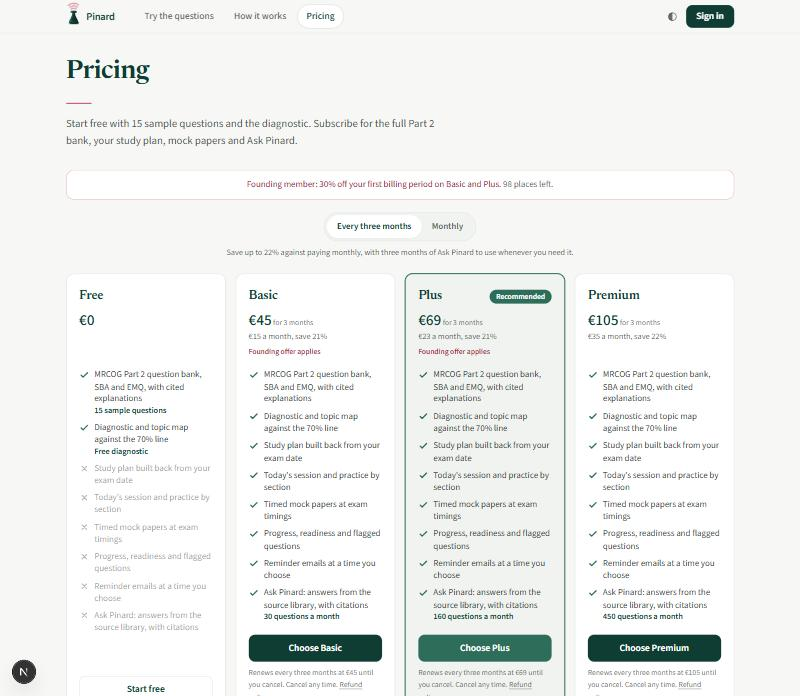
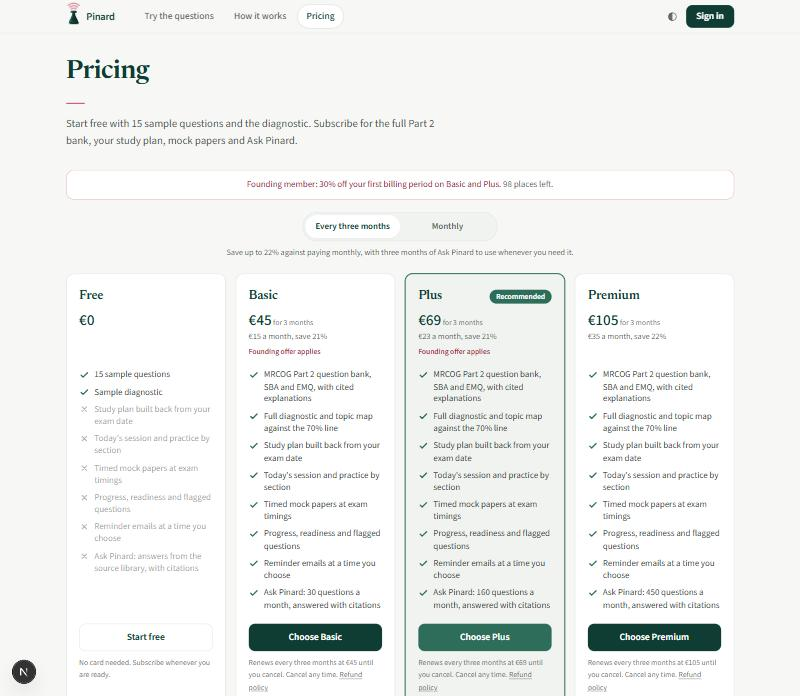
Pricing: owner's review fixes, landing sections alternate
- Billing-period toggle slides; prices ease in on a switch (not on load),
  transform and opacity only, off under reduced motion
- Free card: 15 sample questions and a sample diagnostic; full diagnostic
  from Basic; each tier words its own feature rows
- Comparison table removed (it repeated the cards); buttons aligned
- Landing page sections alternate between the page colour and white
- Daily fair-use test passes now phase45 is run (41 of 41)

diff --git a/src/app/pricing/PricingPlans.tsx b/src/app/pricing/PricingPlans.tsx
@@ -7,7 +7,9 @@ import type { CardView, PricingView } from "@/lib/pricingView";
 import { recordToggle } from "./actions";
 
 /**
- * The four plans (pricing Phase 2, D).
+ * The four plans (pricing Phase 2, D). The comparison table that used
+ * to follow them was removed at the owner's request (10 October 2026):
+ * it repeated the cards line for line.
  *
  * Three-monthly is selected first, showing the price per month and the
  * saving against paying monthly. Every card lists the same features in
@@ -48,11 +50,14 @@ export function PricingPlans({
   examWeeks: number | null;
 }) {
   const [interval, setInterval] = useState<Interval>("quarter");
+  // The new figures ease in only after a switch, not when the page loads.
+  const [switched, setSwitched] = useState(false);
   const best = Math.max(...view.cards.map((c) => c.prices?.quarter.saving ?? 0));
 
   function choose(next: Interval) {
     if (next === interval) return;
     setInterval(next);
+    setSwitched(true);
     void recordToggle(next);
   }
 
@@ -66,7 +71,14 @@ export function PricingPlans({
       )}
 
       <div className="flex flex-col items-center gap-2">
-        <div role="radiogroup" aria-label="Billing period" className="inline-flex rounded-full border border-line bg-sunk p-1">
+        {/* Two equal halves and one white pill that slides between them,
+            so the switch is seen to move rather than to blink. */}
+        <div role="radiogroup" aria-label="Billing period" className="relative grid grid-cols-2 rounded-full border border-line bg-sunk p-1">
+          <span
+            aria-hidden="true"
+            className="absolute inset-y-1 left-1 w-[calc(50%-0.25rem)] rounded-full bg-surface shadow-card transition-transform duration-[250ms] ease-out motion-reduce:transition-none"
+            style={{ transform: interval === "month" ? "translateX(100%)" : "translateX(0)" }}
+          />
           {(["quarter", "month"] as Interval[]).map((i) => (
             <button
               key={i}
@@ -74,15 +86,15 @@ export function PricingPlans({
               role="radio"
               aria-checked={interval === i}
               onClick={() => choose(i)}
-              className={`rounded-full px-4 py-2 font-ui text-[14px] font-semibold transition-colors duration-200 ${
-                interval === i ? "bg-surface text-ink-strong shadow-card" : "text-ink/70 hover:text-ink-strong"
+              className={`relative z-10 rounded-full px-4 py-2 font-ui text-[14px] font-semibold transition-colors duration-[250ms] ${
+                interval === i ? "text-ink-strong" : "text-ink/70 hover:text-ink-strong"
               }`}
             >
               {i === "quarter" ? "Every three months" : "Monthly"}
             </button>
           ))}
         </div>
-        <p className="font-ui text-[13px] text-ink/70">
+        <p key={interval} className={`font-ui text-[13px] text-ink/70 ${switched ? "price-swap" : ""}`}>
           {interval === "quarter"
             ? `Save up to ${best}% against paying monthly, with three months of Ask Pinard to use whenever you need it.`
             : "The most flexible: pay month by month."}
@@ -102,6 +114,7 @@ export function PricingPlans({
             key={card.tier}
             card={card}
             interval={interval}
+            animate={switched}
             signedIn={signedIn}
             current={currentTier === card.tier}
           />
@@ -109,13 +122,23 @@ export function PricingPlans({
       </div>
 
       <p className="mt-4 text-center font-ui text-[13px] text-ink/70">{view.taxNote} Prices vary by country.</p>
-
-      <Comparison cards={view.cards} />
     </div>
   );
 }
 
-function Card({ card, interval, signedIn, current }: { card: CardView; interval: Interval; signedIn: boolean; current: boolean }) {
+function Card({
+  card,
+  interval,
+  animate,
+  signedIn,
+  current,
+}: {
+  card: CardView;
+  interval: Interval;
+  animate: boolean;
+  signedIn: boolean;
+  current: boolean;
+}) {
   const price = card.prices?.[interval];
   return (
     <section
@@ -131,7 +154,7 @@ function Card({ card, interval, signedIn, current }: { card: CardView; interval:
         )}
       </div>
 
-      <p className="mt-2 min-h-[3.5rem]">
+      <p key={interval} className={`mt-2 min-h-[3.5rem] ${price && animate ? "price-swap" : ""}`}>
         {price ? (
           <>
             <span className="font-mono text-2xl font-medium text-ink-strong">{price.amount}</span>
@@ -151,12 +174,11 @@ function Card({ card, interval, signedIn, current }: { card: CardView; interval:
 
       <ul className="mt-4 space-y-2">
         {card.features.map((f) => (
-          <li key={f.label} className={`flex gap-2 font-ui text-[14px] leading-snug ${f.included ? "text-ink/85" : "text-ink/45"}`}>
+          <li key={f.text} className={`flex gap-2 font-ui text-[14px] leading-snug ${f.included ? "text-ink/85" : "text-ink/45"}`}>
             {f.included ? <Tick /> : <Cross />}
             <span>
               <span className="sr-only">{f.included ? "Included: " : "Not included: "}</span>
-              {f.label}
-              {f.detail && <span className="block text-[13px] font-semibold text-ink-strong">{f.detail}</span>}
+              {f.text}
             </span>
           </li>
         ))}
@@ -178,7 +200,7 @@ function Card({ card, interval, signedIn, current }: { card: CardView; interval:
             <input type="hidden" name="interval" value={interval} />
             <button
               type="submit"
-              className={`w-full rounded-control px-4 py-2.5 font-ui text-[15px] font-semibold ${
+              className={`w-full rounded-control border border-transparent px-4 py-2.5 font-ui text-[15px] font-semibold ${
                 card.recommended ? "bg-good text-on-brand hover:bg-brand" : "bg-brand text-on-brand hover:bg-good"
               }`}
             >
@@ -186,62 +208,20 @@ function Card({ card, interval, signedIn, current }: { card: CardView; interval:
             </button>
           </form>
         )}
-        {price && (
-          <p className="mt-2 font-ui text-[12px] leading-relaxed text-ink/65">
-            {price.renewal} Cancel any time.{" "}
-            <Link href="/refunds" className="underline underline-offset-2 hover:text-ink-strong">
-              Refund policy
-            </Link>
-          </p>
-        )}
-      </div>
-    </section>
-  );
-}
-
-function Comparison({ cards }: { cards: CardView[] }) {
-  const rows = cards[0]?.features.map((f) => f.label) ?? [];
-  return (
-    <section className="mt-12" aria-labelledby="compare">
-      <h2 id="compare" className="font-display text-[22px] font-semibold text-ink-strong">
-        Compare the plans
-      </h2>
-      <div className="mt-4 overflow-x-auto rounded-card border border-line">
-        <table className="w-full min-w-[640px] border-collapse text-left font-ui text-[14px]">
-          <thead className="bg-sunk">
-            <tr>
-              <th scope="col" className="px-3 py-2 font-semibold text-ink-strong">
-                Feature
-              </th>
-              {cards.map((c) => (
-                <th key={c.tier} scope="col" className={`px-3 py-2 font-semibold ${c.recommended ? "text-good" : "text-ink-strong"}`}>
-                  {c.name}
-                  {c.recommended && <span className="block text-[12px] font-medium">Recommended</span>}
-                </th>
-              ))}
-            </tr>
-          </thead>
-          <tbody>
-            {rows.map((label, r) => (
-              <tr key={label} className="border-t border-line align-top">
-                <th scope="row" className="px-3 py-2 font-normal text-ink/85">
-                  {label}
-                </th>
-                {cards.map((c) => {
-                  const f = c.features[r];
-                  return (
-                    <td key={c.tier} className="px-3 py-2">
-                      <span className="flex gap-1.5">
-                        {f.included ? <Tick /> : <Cross />}
-                        <span className={f.included ? "text-ink/85" : "text-ink/45"}>{f.detail ?? (f.included ? "Included" : "Not included")}</span>
-                      </span>
-                    </td>
-                  );
-                })}
-              </tr>
-            ))}
-          </tbody>
-        </table>
+        {/* Every card has a note under its button and the same space
+            for it, so the buttons line up across the row. */}
+        <p key={interval} className={`mt-2 min-h-[3.75rem] font-ui text-[12px] leading-relaxed text-ink/65 ${price && animate ? "price-swap" : ""}`}>
+          {price ? (
+            <>
+              {price.renewal} Cancel any time.{" "}
+              <Link href="/refunds" className="underline underline-offset-2 hover:text-ink-strong">
+                Refund policy
+              </Link>
+            </>
+          ) : (
+            "No card needed. Subscribe whenever you are ready."
+          )}
+        </p>
       </div>
     </section>
   );

diff --git a/src/components/landing/Landing.tsx b/src/components/landing/Landing.tsx
@@ -82,10 +82,19 @@ export function Landing({
   const live = (["part1", "part2", "part3"] as ExamPart[]).filter((p) => availability?.[p]);
   const paper = live.length === 1 ? `MRCOG ${EXAM_LABELS[live[0]]}` : "MRCOG";
 
+  /*
+    Each section alternates between the page's ground and white, in the
+    order they appear (owner's request, 10 October 2026), so one band
+    reads as ending where the next begins. Counted as the page renders,
+    because the testimonials section is there only when there are some.
+  */
+  let band = 0;
+  const tone = () => (band++ % 2 === 1 ? "bg-surface" : "bg-ground");
+
   return (
     <div data-wide="" className="-my-8 sm:-my-10">
       {/* Opening: what it is, and one real question to answer. */}
-      <ScrollFade className="bleed">
+      <ScrollFade className={`bleed ${tone()}`}>
         <div className={`${FRAME} grid items-start gap-10 py-12 sm:py-16 lg:grid-cols-[minmax(0,1fr)_minmax(0,30rem)] lg:gap-16 lg:py-20`}>
           <div className="lg:pt-6">
             <h1 className="max-w-[16ch] font-serif text-[36px] font-semibold leading-[1.08] tracking-[-0.015em] text-ink-strong [font-variation-settings:'opsz'_72] sm:text-[46px]">
@@ -117,7 +126,7 @@ export function Landing({
 
       {/* The library, stated as one sentence of fact rather than a strip
           of big numbers. The two counts still arrive, read live. */}
-      <ScrollFade className="bleed border-y border-line">
+      <ScrollFade className={`bleed border-y border-line ${tone()}`}>
         <div className={`${FRAME} py-8`}>
           <p className="max-w-[52rem] font-serif text-[21px] leading-snug text-ink sm:text-[24px]">
             <span className="font-semibold tabular-nums text-ink-strong">
@@ -136,7 +145,7 @@ export function Landing({
 
       {/* What it does: the four steps a candidate goes through, each
           beside a picture of it happening (HowItWorks). */}
-      <section className="bleed">
+      <section className={`bleed ${tone()}`}>
         <ScrollFade as="div" className={`${FRAME} pt-14 sm:pt-20`}>
           <h2 className="font-serif text-[28px] font-semibold leading-tight text-ink-strong sm:text-[34px]">
             What Pinard does
@@ -153,7 +162,7 @@ export function Landing({
       </section>
 
       {/* Ask Pinard: not a step, something to use at any point. */}
-      <section className="bleed border-t border-line bg-surface">
+      <section className={`bleed border-t border-line ${tone()}`}>
         <div className={`${FRAME} py-14 sm:py-20`}>
           <AskPinardFeature />
         </div>
@@ -162,7 +171,7 @@ export function Landing({
       {/* Words written by somebody other than us, if there are any. No
           placeholder: an invented testimonial is a lie about a person. */}
       {testimonials && testimonials.length > 0 && (
-        <ScrollFade className="bleed border-t border-line">
+        <ScrollFade className={`bleed border-t border-line ${tone()}`}>
           <div className={`${FRAME} py-14`}>
             <h2 className="font-serif text-[28px] font-semibold text-ink-strong">
               What candidates said
@@ -186,7 +195,7 @@ export function Landing({
       )}
 
       {/* Pricing */}
-      <ScrollFade className="bleed border-t border-line" id="pricing">
+      <ScrollFade className={`bleed border-t border-line ${tone()}`} id="pricing">
         <div className={`${FRAME} py-14 sm:py-20`}>
           <h2 className="font-serif text-[28px] font-semibold leading-tight text-ink-strong sm:text-[34px]">
             Every plan, the whole Part 2 syllabus
@@ -203,7 +212,7 @@ export function Landing({
       </ScrollFade>
 
       {/* Close */}
-      <ScrollFade className="bleed border-t border-line bg-surface">
+      <ScrollFade className={`bleed border-t border-line ${tone()}`}>
         <div className={`${FRAME} py-14 sm:py-20`}>
           <h2 className="font-serif text-[28px] font-semibold leading-tight text-ink-strong sm:text-[34px]">
             Find out where you stand

diff --git a/src/config/pricing.ts b/src/config/pricing.ts
@@ -118,8 +118,10 @@ export const FOUNDING_OFFER_MAX_PERCENT = 30;
  */
 export type Feature = {
   key: string;
+  /** What the card says where the feature is included as standard. */
   label: string;
-  /** Per tier: true, false, or the tier's own wording. */
+  /** Per tier: true (the label), false (shown crossed out), or the
+   *  tier's own wording in place of the label. */
   value: Record<Tier, boolean | string>;
 };
 
@@ -131,8 +133,8 @@ export const FEATURES: Feature[] = [
   },
   {
     key: "diagnostic",
-    label: "Diagnostic and topic map against the 70% line",
-    value: { free: "Free diagnostic", basic: true, plus: true, premium: true },
+    label: "Full diagnostic and topic map against the 70% line",
+    value: { free: "Sample diagnostic", basic: true, plus: true, premium: true },
   },
   {
     key: "plan",
@@ -164,9 +166,9 @@ export const FEATURES: Feature[] = [
     label: "Ask Pinard: answers from the source library, with citations",
     value: {
       free: false,
-      basic: "30 questions a month",
-      plus: "160 questions a month",
-      premium: "450 questions a month",
+      basic: "Ask Pinard: 30 questions a month, answered with citations",
+      plus: "Ask Pinard: 160 questions a month, answered with citations",
+      premium: "Ask Pinard: 450 questions a month, answered with citations",
     },
   },
 ];

diff --git a/src/lib/pricingView.ts b/src/lib/pricingView.ts
@@ -35,7 +35,7 @@ export type CardView = {
   recommended: boolean;
   founding: boolean;
   prices: Record<Interval, PriceView> | null;
-  features: { label: string; included: boolean; detail: string | null }[];
+  features: { text: string; included: boolean }[];
 };
 
 export type PricingView = {
@@ -82,7 +82,7 @@ export async function pricingView(region: Region, country: string | null, foundi
       prices,
       features: FEATURES.map((f) => {
         const v = f.value[tier];
-        return { label: f.label, included: v !== false, detail: typeof v === "string" ? v : null };
+        return { text: typeof v === "string" ? v : f.label, included: v !== false };
       }),
     };
   });

diff --git a/src/app/globals.css b/src/app/globals.css
@@ -746,3 +746,30 @@ body {
     opacity: 0;
   }
 }
+
+/*
+  A price changing on the pricing page when the billing period is
+  switched: the new figure rises a few pixels into place as it fades in,
+  so the eye sees that it changed rather than finding it changed.
+  220ms, transform and opacity only, off under reduced motion.
+*/
+.price-swap {
+  animation: price-swap 220ms ease-out both;
+}
+
+@keyframes price-swap {
+  from {
+    opacity: 0;
+    transform: translateY(4px);
+  }
+  to {
+    opacity: 1;
+    transform: translateY(0);
+  }
+}
+
+@media (prefers-reduced-motion: reduce) {
+  .price-swap {
+    animation: none;
+  }
+}

diff --git a/docs/BUILD-PHASES.md b/docs/BUILD-PHASES.md
@@ -128,6 +128,7 @@ Status: **built and tested (10 October 2026); waiting for the owner's review.** 
 - The legal pages are updated, with the new clauses marked for legal review.
 - Tests: `scripts/test-pricing.mts`, 40 passed; the daily counter waits for phase45.
 - Owner's checklist: `docs/pricing/LIVE-CHECKLIST.md`.
+- Owner's review, 10 October 2026: phase45 run (daily fair-use test now passes, 41 of 41); the billing-period toggle slides and the new prices ease in when it is switched; Free reads "15 sample questions" and "Sample diagnostic", with the full diagnostic from Basic; the comparison table removed (it repeated the cards); buttons aligned across the cards; landing-page sections alternate between the page colour and white.
 
 ---
 
